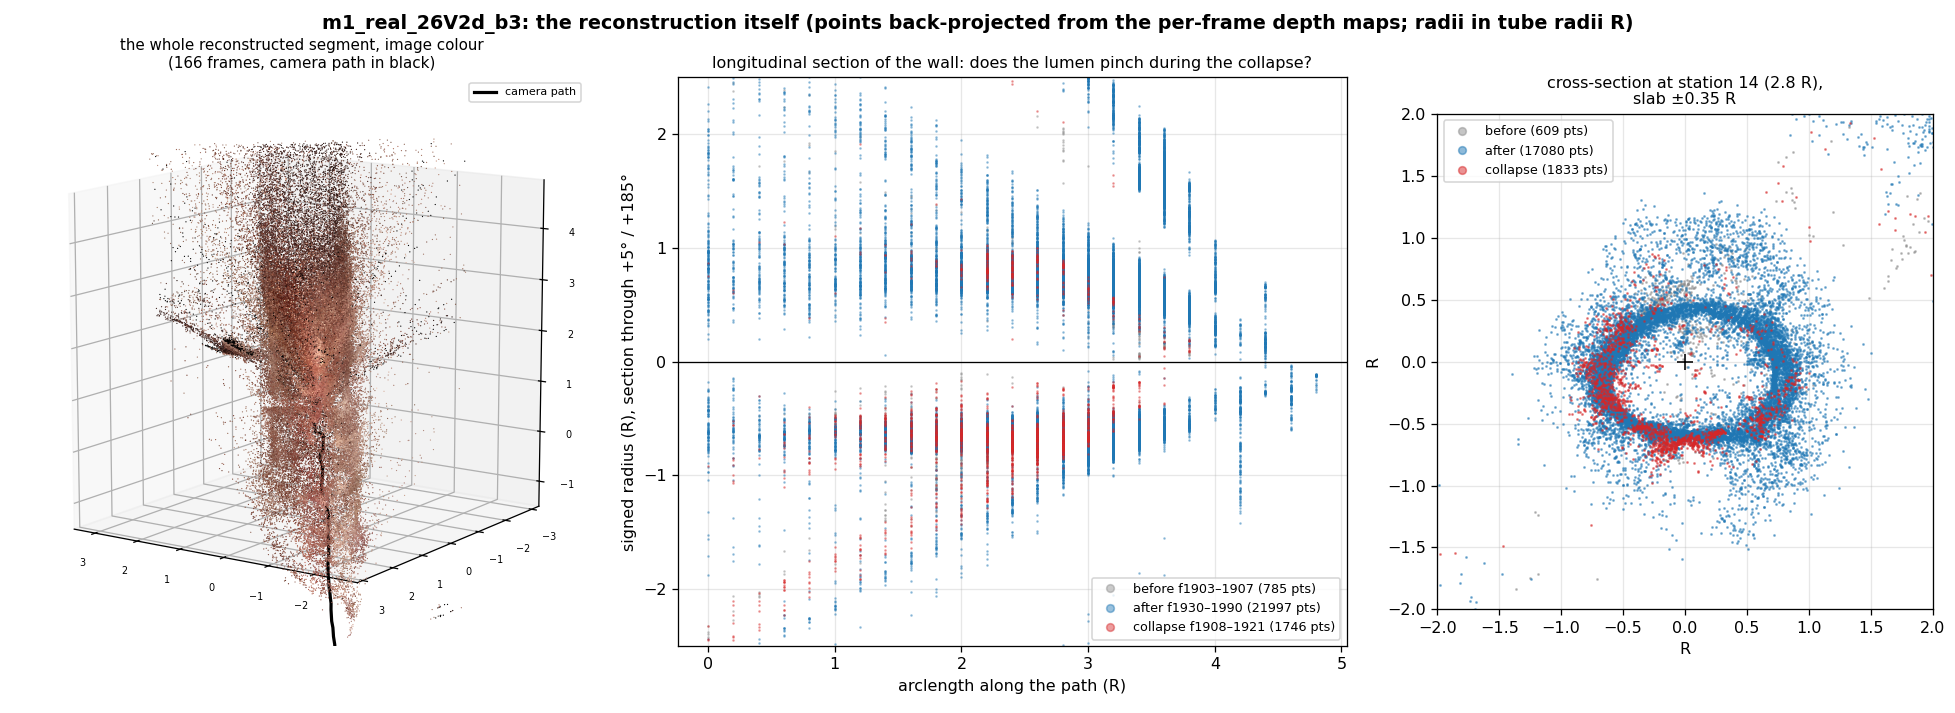
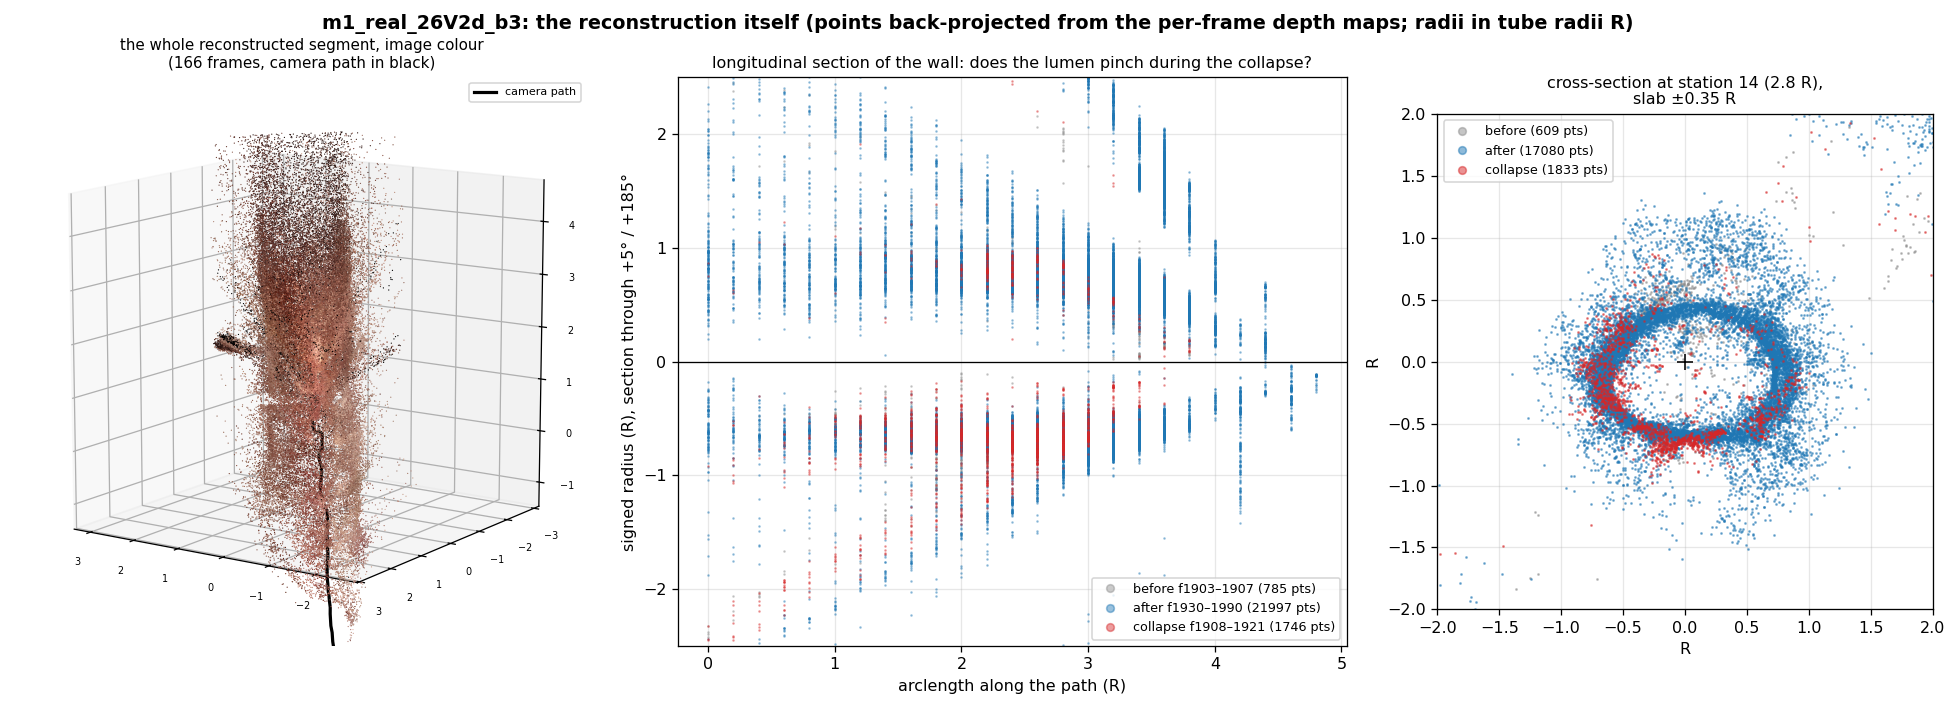
Eyeball: C3VD reconstruction against truth (old setting vs recipe, slab cross-section)

diff --git a/c3vd/eyeball_truth.py b/c3vd/eyeball_truth.py
@@ -1,0 +1,66 @@
+"""Eyeball a C3VD reconstruction against ground truth: the ground-truth cloud and one or two reconstructions in the same
+box (image colour), plus the per-pixel error distributions. Every cloud is built from the SAME pixels, so the shapes are
+comparable; an over-reading stereo shows as a cloud that spills outside the true wall.
+Usage: python c3vd/eyeball_truth.py runs/c3vd_cecum --run st_eye --run2 st_eye_old --gt-poses <pose.txt> --out x.png"""
+import argparse, os, json, subprocess, tempfile, shutil, numpy as np, cv2
+import matplotlib; matplotlib.use("Agg"); import matplotlib.pyplot as plt
+ap = argparse.ArgumentParser(); ap.add_argument("prep"); ap.add_argument("--run", required=True); ap.add_argument("--run2", default=None)
+ap.add_argument("--label", default="sources 3–5 frames + COLMAP poses (the recipe)"); ap.add_argument("--label2", default="sources ±1–2 frames (the old setting)")
+ap.add_argument("--out", required=True); ap.add_argument("--stride", type=int, default=6); ap.add_argument("--frame-step", type=int, default=2); ap.add_argument("--gt-poses", required=True)
+a = ap.parse_args(); COLMAP = os.environ.get("BRONCHO_COLMAP", "colmap")
+def sh(cmd):
+    r = subprocess.run([COLMAP] + cmd, capture_output=True, text=True, errors="replace")
+    if r.returncode != 0: raise RuntimeError(cmd[0] + "\n" + r.stderr[-1000:])
+def read_depth(p):
+    with open(p, "rb") as f:
+        hdr = b""
+        while hdr.count(b"&") < 3: hdr += f.read(1)
+        w, h, c = map(int, hdr.decode().split("&")[:3]); return np.fromfile(f, np.float32).reshape(h, w, c)[:, :, 0]
+def load_gt(base):
+    if os.path.exists(base + ".npz"): return np.load(base + ".npz")["d"].astype(np.float32) / 100.0
+    return np.load(base + ".npy")
+P = json.load(open(f"{a.prep}/pinhole.json")); f0, _, cx0, cy0 = P["params_colmap"][:4]; S0 = P["width"]; gtp = np.loadtxt(a.gt_poses, delimiter=",")
+def collect(run_name):
+    run = f"{a.prep}/{run_name}"; scale = json.load(open(f"{run}/summary.json")).get("scale_mm_per_unit", 1.0)
+    td = tempfile.mkdtemp(); sh(["model_converter", "--input_path", f"{run}/dense/sparse", "--output_path", td, "--output_type", "TXT"])
+    names = sorted([l.split()[9] for l in [l for l in open(f"{td}/images.txt") if l.strip() and not l.startswith("#")][0::2]], key=lambda n: int(n[1:6])); shutil.rmtree(td)
+    E, G, COL, ERR = [], [], [], []
+    for n in names[::a.frame_step]:
+        k = int(n[1:6]); fp = f"{run}/dense/stereo/depth_maps/{n}.geometric.bin"
+        if not os.path.exists(fp): continue
+        est = read_depth(fp) * scale; h_, w_ = est.shape; s_ = w_ / S0; img = cv2.imread(f"{run}/dense/images/{n}")
+        gt = cv2.resize(load_gt(f"{a.prep}/gt_depth/{n[:-4]}"), (w_, h_), interpolation=cv2.INTER_NEAREST)
+        v, u = np.mgrid[0:h_:a.stride, 0:w_:a.stride]; e = est[::a.stride, ::a.stride]; g = gt[::a.stride, ::a.stride]; ok = (e > 0) & (g > 0.5)
+        if ok.sum() < 50: continue
+        fx_, cx_, cy_ = f0 * s_, cx0 * s_, cy0 * s_; x = (u[ok] - cx_) / fx_; y = (v[ok] - cy_) / fx_
+        M = gtp[k]; Rc2w = M[:12].reshape(3, 4)[:, :3].T; Cw = M[12:15]
+        E.append((Rc2w @ np.stack([x * e[ok], y * e[ok], e[ok]], 1).T).T + Cw); G.append((Rc2w @ np.stack([x * g[ok], y * g[ok], g[ok]], 1).T).T + Cw)
+        ERR.append((e[ok] - g[ok]) / g[ok]); COL.append(cv2.resize(img, (w_, h_))[::a.stride, ::a.stride][ok][:, ::-1] / 255.0 if img is not None else np.full((ok.sum(), 3), 0.6))
+    return np.vstack(E), np.vstack(G), np.vstack(COL), np.concatenate(ERR)
+E1, G1, C1, R1 = collect(a.run); print(f"{a.run}: {len(E1)} points, rel error median {100*np.median(R1):+.1f}%")
+pair2 = collect(a.run2) if a.run2 else None
+if pair2: print(f"{a.run2}: {len(pair2[0])} points, rel error median {100*np.median(pair2[3]):+.1f}%")
+panels = [(G1, C1, "ground truth (C3VD depth, C3VD poses)", None)] + ([(pair2[0], pair2[2], a.label2, pair2[3])] if pair2 else []) + [(E1, C1, a.label, R1)]
+fig = plt.figure(figsize=(5.2 * len(panels), 10.4)); gs = fig.add_gridspec(2, len(panels))
+rng = np.random.default_rng(0); lim = np.percentile(G1, [1, 99], axis=0); ctr = lim.mean(0); half = (lim[1] - lim[0]).max() / 2 * 1.15
+def inbox(X): return np.all(np.abs(X - ctr) < half, axis=1)          # the SAME box for every cloud: truth's 1-99 percentile extent
+for j, (X, C, ttl, err) in enumerate(panels):
+    keepb = inbox(X); sub = rng.choice(np.where(keepb)[0], min(int(keepb.sum()), 90000), replace=False); ax = fig.add_subplot(gs[0, j], projection="3d")
+    ax.scatter(X[sub, 0], X[sub, 1], X[sub, 2], c=C[sub], s=0.5, lw=0, depthshade=False)
+    sub_t = f"\nmedian {100*np.median(err):+.1f} %, |error| {np.median(np.abs(err))*100:.0f} %\n{100*(1-keepb.mean()):.0f} % of points outside the true extent" if err is not None else "\n(the wall as it really is)"
+    ax.set_title(ttl + sub_t, fontsize=9.5); ax.set_box_aspect((1, 1, 1)); ax.view_init(elev=18, azim=-60); ax.tick_params(labelsize=6)
+    ax.set_xlim(ctr[0] - half, ctr[0] + half); ax.set_ylim(ctr[1] - half, ctr[1] + half); ax.set_zlim(ctr[2] - half, ctr[2] + half); ax.set_xlabel("mm", fontsize=7)
+# slab through the phantom: the three walls on top of each other
+zc = np.median(G1[:, 2]); ax = fig.add_subplot(gs[1, 0:max(1, len(panels) - 1)])
+for X, c_, lab, lw_ in ((G1, "k", "ground truth", 0), ) + (((pair2[0], "tab:orange", a.label2, 0),) if pair2 else ()) + ((E1, "tab:blue", a.label, 0),):
+    m_ = np.abs(X[:, 2] - zc) < 1.5
+    ax.plot(X[m_, 0], X[m_, 1], ".", ms=1.4, color=c_, alpha=0.45 if c_ != "k" else 0.8, label=f"{lab} ({m_.sum()} pts)")
+ax.set_aspect("equal"); ax.set_xlabel("x (mm)"); ax.set_ylabel("y (mm)"); ax.grid(alpha=.3); ax.legend(fontsize=9, markerscale=8)
+ax.set_title(f"a 3 mm slab through the phantom at z = {zc:.0f} mm: where each method puts the wall", fontsize=11)
+ax.set_xlim(ctr[0] - half, ctr[0] + half); ax.set_ylim(ctr[1] - half, ctr[1] + half)
+ax = fig.add_subplot(gs[1, max(1, len(panels) - 1):]); bins = np.linspace(-60, 90, 151)
+if pair2: ax.hist(100 * pair2[3], bins=bins, color="tab:orange", alpha=0.65, label=f"{a.label2}: {100*np.median(pair2[3]):+.1f} %")
+ax.hist(100 * R1, bins=bins, color="tab:blue", alpha=0.7, label=f"{a.label}: {100*np.median(R1):+.1f} %")
+ax.axvline(0, color="k", lw=1.2); ax.set_xlabel("relative depth error per pixel (%)"); ax.set_ylabel("pixels"); ax.legend(fontsize=8); ax.grid(alpha=.3); ax.set_title("error against truth, same pixels", fontsize=10)
+fig.suptitle(f"C3VD {os.path.basename(a.prep)} (real colonoscope, CT-registered phantom): the airway pipeline's per-frame stereo, seen against truth", fontweight="bold")
+fig.tight_layout(); os.makedirs(os.path.dirname(a.out), exist_ok=True); fig.savefig(a.out, dpi=115); print("figure:", a.out)

diff --git a/m2/eyeball_cloud.py b/m2/eyeball_cloud.py
@@ -51,7 +51,7 @@ ev = (FR >= a.event[0]) & (FR <= a.event[1]); pre = (FR >= a.pre[0]) & (FR <= a.
 print(f"{len(P)} points from {len(set(FR))} frames; kept {keep.sum()} within 3 R of the path; event points {(keep&ev).sum()}, pre-event {(keep&pre).sum()}")
 fig = plt.figure(figsize=(17, 6.2)); gs = fig.add_gridspec(1, 3, width_ratios=[1.15, 1.35, 1])
 # A: oblique 3D, image colour
-ax = fig.add_subplot(gs[0, 0], projection="3d"); m = keep
+ax = fig.add_subplot(gs[0, 0], projection="3d"); m = keep & (rr < 1.8)
 sub = np.random.default_rng(0).choice(np.where(m)[0], min(m.sum(), a.max_points // 3), replace=False)
 ax.scatter(P[sub, 0] / R, P[sub, 1] / R, P[sub, 2] / R, c=COL[sub], s=0.6, lw=0, depthshade=False)
 ax.plot(C_all[:, 0] / R, C_all[:, 1] / R, C_all[:, 2] / R, "k-", lw=2, label="camera path")
